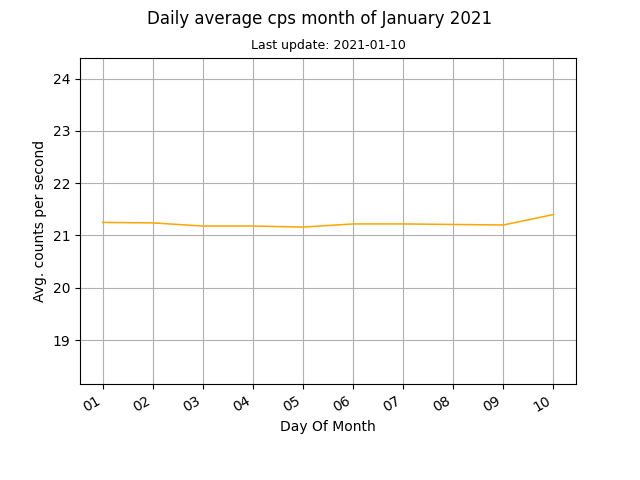
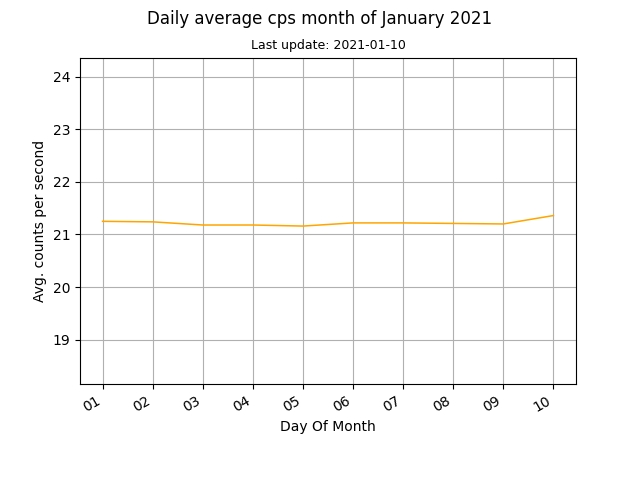
auto data update

diff --git a/docs/index.html b/docs/index.html
@@ -45,8 +45,8 @@
 	
 	<br>
 	
-	<p>Current counts per second (cps): 21.48</p>
-	<p>Last update: 2021-01-10, 00:35</p>
+	<p>Current counts per second (cps): 21.25</p>
+	<p>Last update: 2021-01-10, 00:50</p>
 
 	<p><a href="images/monthly.png"><img src="images/monthly.png" alt="Mothly avg cps data"></a><a href="images/daily.png"><img src="images/daily.png" alt="Daily avg cps data"></a></p>
 	
